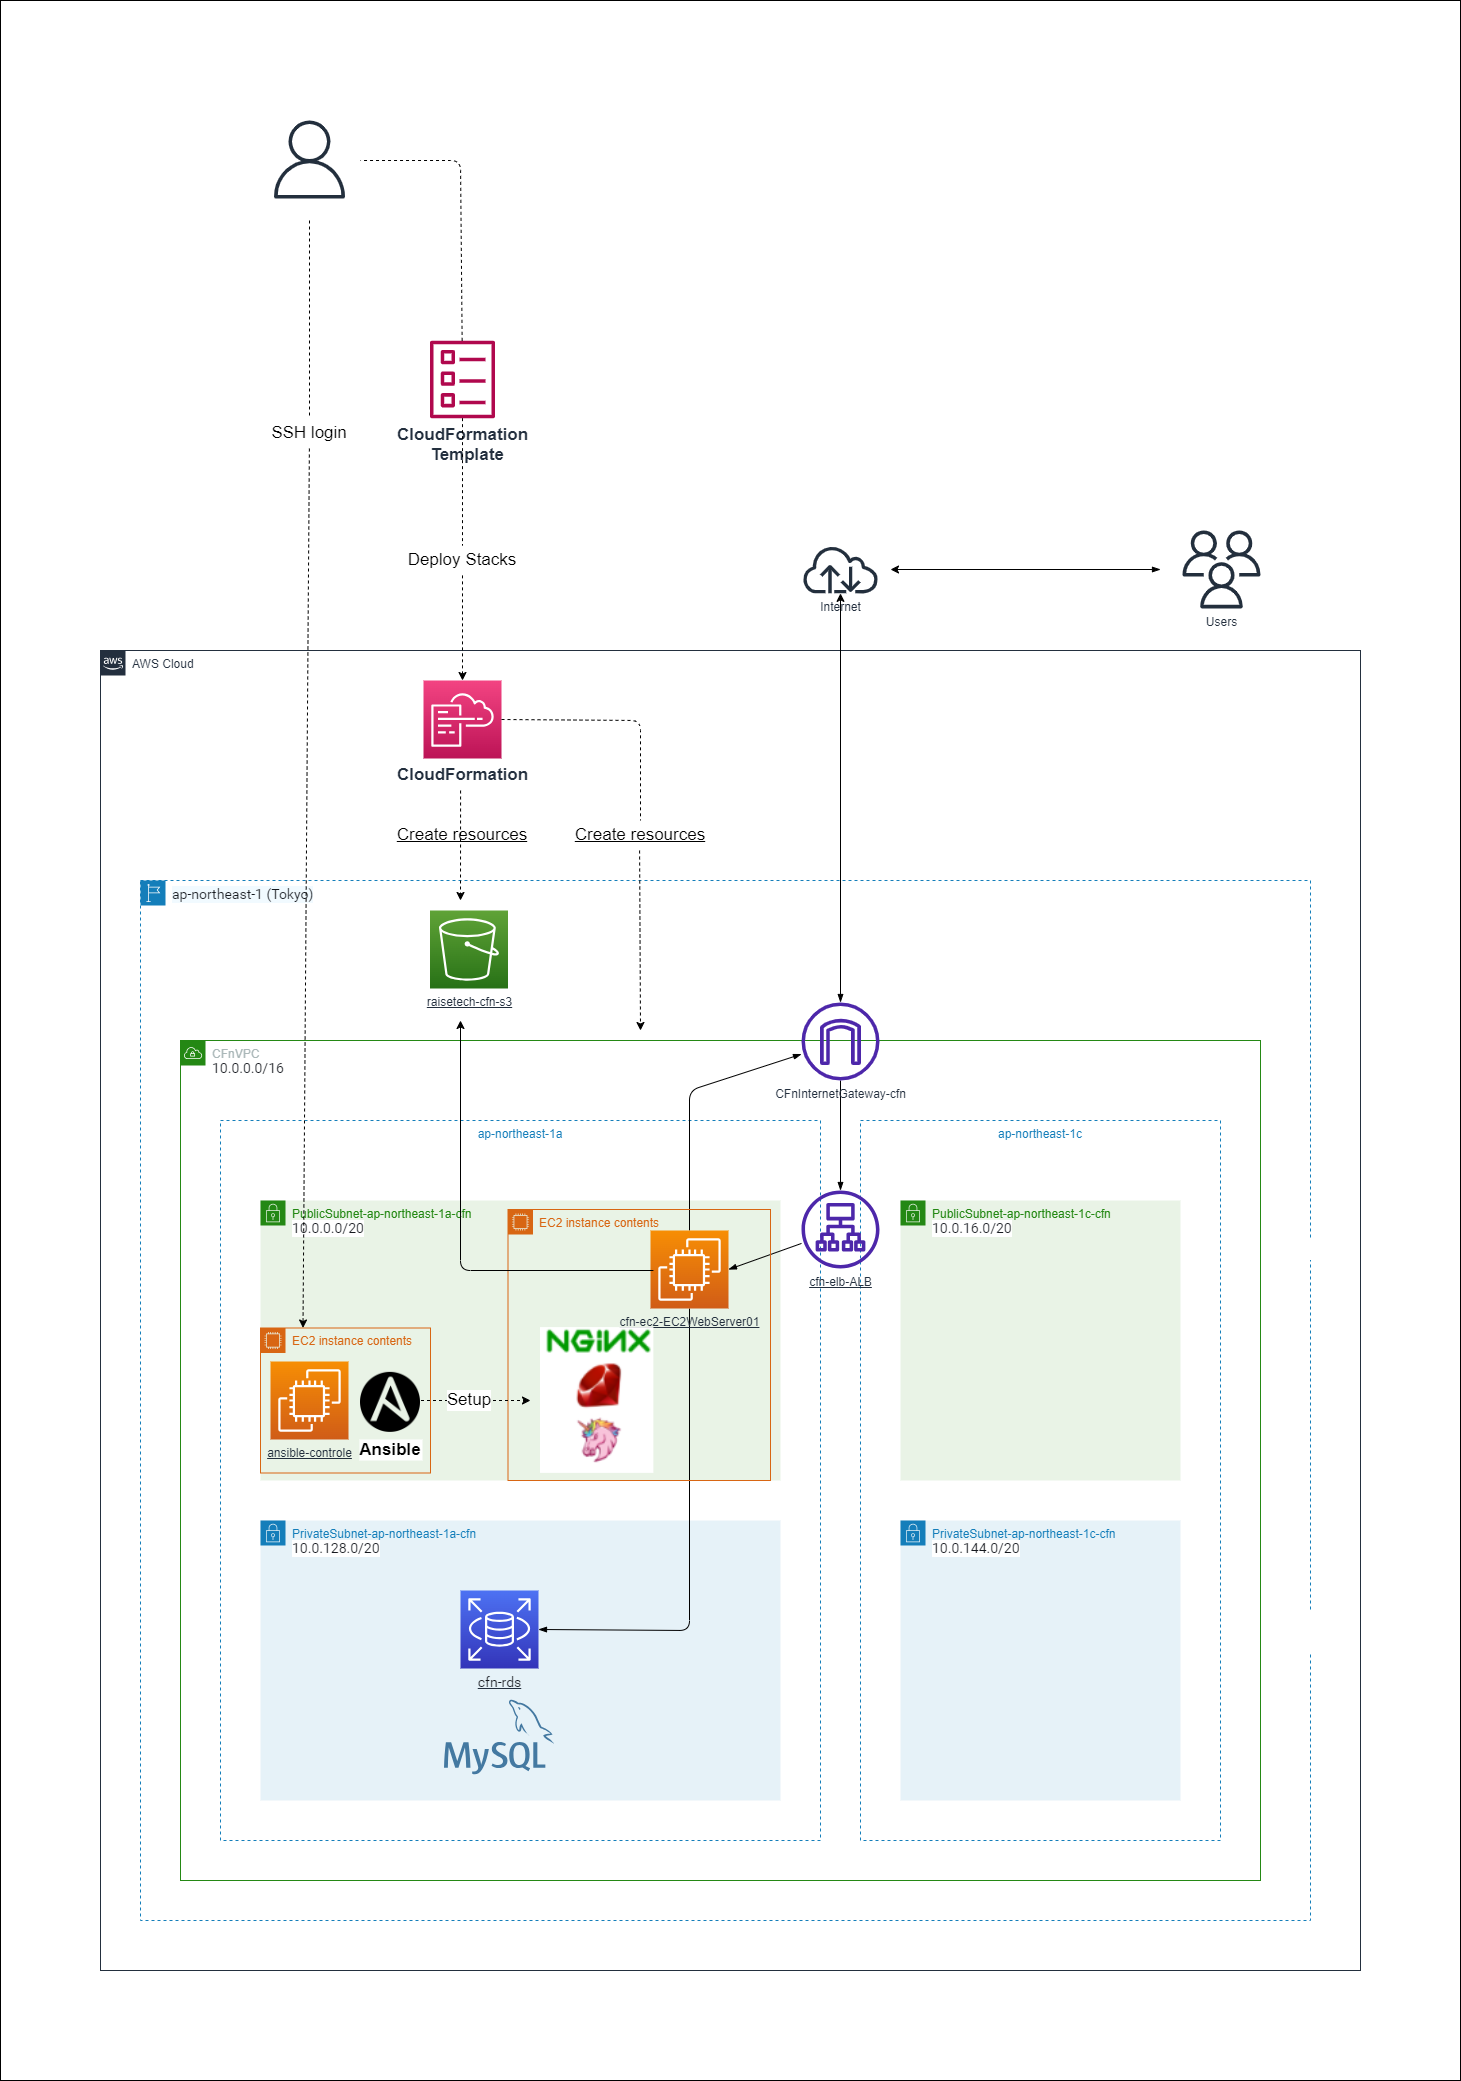
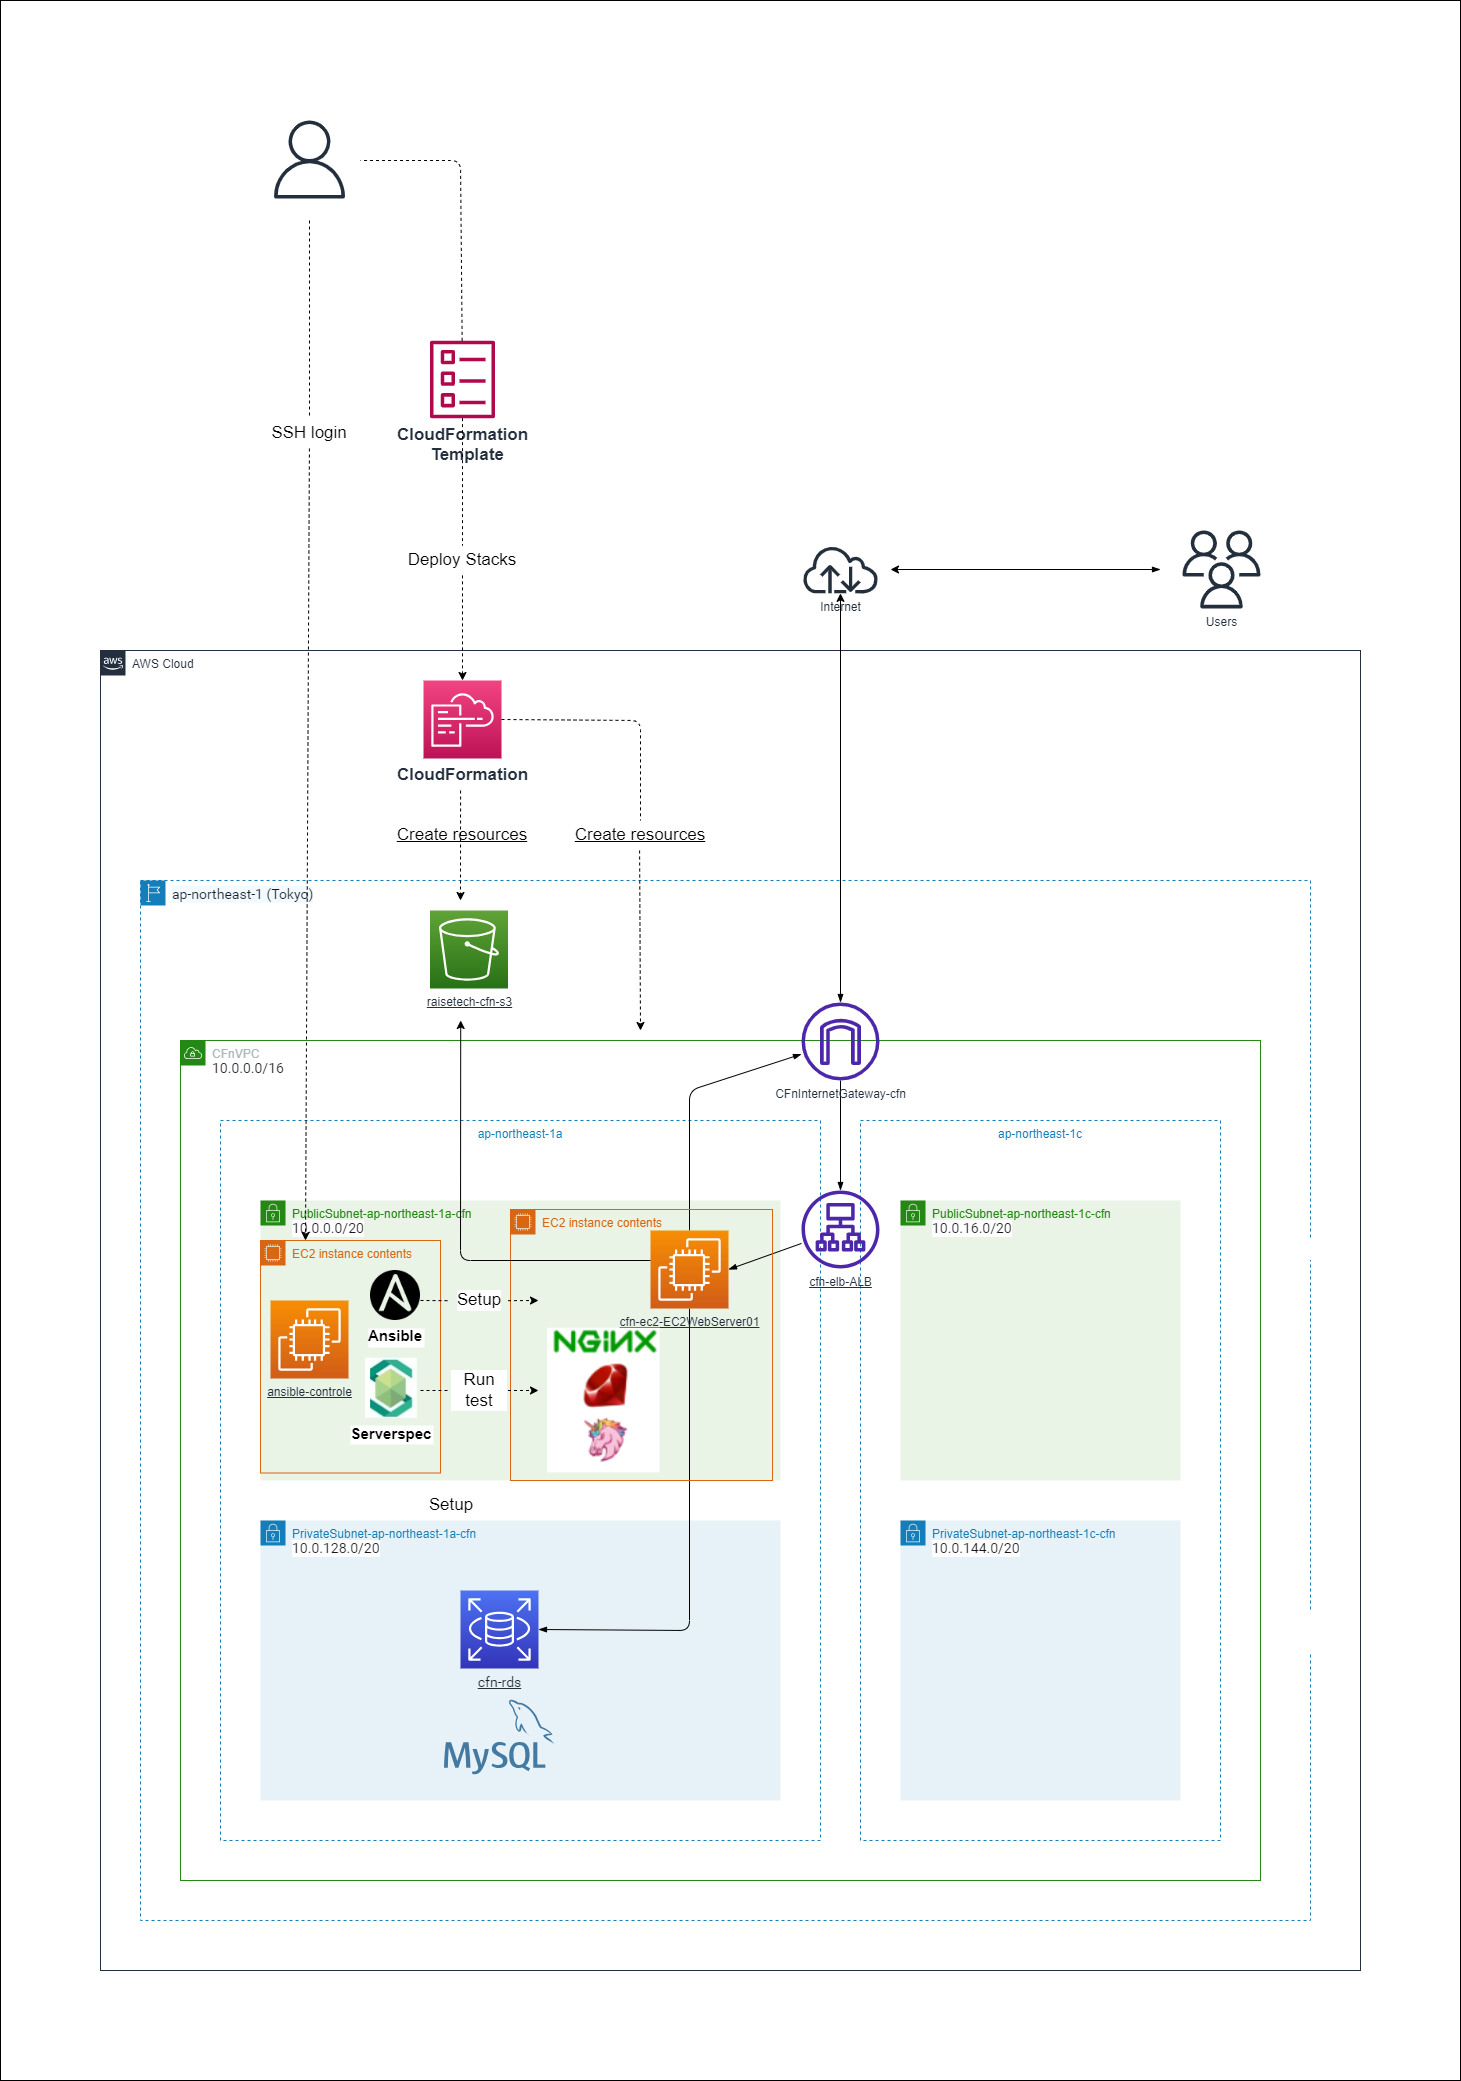
ansible-practice02.md・README.md：追記・編集

Changed region(s): [[0.154, 0.5622, 0.462, 0.7184]]

diff --git a/ansible_practice/practice02/ansible-practice02.md b/ansible_practice/practice02/ansible-practice02.md
@@ -1,4 +1,4 @@
-# 【 Ansible ( advanced )： サンプルアプリケーションのデプロイ・手動構築を自動化 】
+# 【 Ansible ( advanced )  ＋ Serverspec：サンプルアプリケーションのデプロイ・手動構築 ＋ テスト を自動化 】
 
 ## ■ 本実践内容の概要
 - [lecture05.md](../../Tasks/lecture05/lecture05.md) の サンプルアプリケーションのデプロイ・手動構築 を Ansible にて自動化
@@ -6,6 +6,7 @@
 - 上記環境上に 新規EC2 (コントロールノード) をマネージメントコンソールで作成し、Playbook等のファイル群を作成
 - コントロールノードからターゲットノードへ  OS/ミドルウェアレイヤーのインストール・設定・起動等を自動実行
 - デプロイが成功しているか動作確認
+- Serverspec によるテスト自動実行も実施　( ※コントロールノードからターゲットノードへのテストを実行)
 
 ## ■ 構成図・自動化処理フロー図・動作環境
 ![ansible-practice02.png](../practice02/images/ansible-practice02.png)
@@ -154,12 +155,24 @@
   | Node     | v17.9.1    |
   | Yarn     | 1.22.19    |
 
+## ■ Serverspec によるテスト実行
+- 下記を参考に、コントロールノード上で Severspec が動作するよう環境構築を実施<br>
+【 参照 】 [lecture13.md - 【 ② Serverspec によるテストを 実行ホストからターゲットノード(リモートホスト)へ行う際の環境構築 】](../../Tasks/lecture13/lecture13.md)<br>
+- 適宜ターゲットノード (リモートホスト) へのSSH接続設定を実施　( `~/.ssh/config` の作成＋権限設定 )
+-  `sample_spec.rb` にテストコードを記述<br>
+( ※記述内容・詳細は [/serverspec/spec/cfn-ec2-EC2WebServer01/sample_spec.rb](./serverspec/spec/cfn-ec2-EC2WebServer01/sample_spec.rb) を参照 )
+- テストコマンドを実行 `bundle exec rake`　( ※`serverspec` ディレクトリに移動して実行 )
+- テスト結果  ：成功
+![ansible_practice02_10.png](./images/ansible_practice02_10.png)
+![ansible_practice02_11.png](./images/ansible_practice02_11.png)
+![ansible_practice02_12.png](./images/ansible_practice02_12.png)
+
 ## ■所感・取組観点など
-- 今回はより Ansible の発展的な内容として、<br>
-これまで手動で行っていた OS/ミドルウェアレイヤー のインストール・設定・起動等の自動化を実施
+- 今回はより Ansible の発展的な内容として、これまで手動で行っていた OS/ミドルウェアレイヤー のインストール・設定・起動等の自動化を実施
 - Ansibleでどのようなことができるのか、それを体験ベースで知るために今回のようなハンズオンを実施
-- なかなかのボリュームだったが、一通りやり終えて非常に勉強になったと実感
-- 今後は Severspec や CircleCI も活用し、より発展的な自動化を行っていきたい
+- また、 Ansible 実行後には Severspec によるテストの自動実行も実施
+- なかなかのボリュームだったが、一連の自動化を試すことができ非常に勉強になった
+- 今後は CircleCI も活用した、より発展的な自動化を行っていきたい
 
 ## ■ 参考リンク
 【 Ansible全般 】
@@ -180,3 +193,6 @@
 - [ansible.builtin.blockinfile module – Insert/update/remove a text block surrounded by marker lines](https://docs.ansible.com/ansible/latest/collections/ansible/builtin/blockinfile_module.html)
 - [ansible.builtin.file module – Manage files and file properties](https://docs.ansible.com/ansible/latest/collections/ansible/builtin/file_module.html)
 - [ansible.builtin.stat module – Retrieve file or file system status](https://docs.ansible.com/ansible/latest/collections/ansible/builtin/stat_module.html)
+
+【 Severspec関連 】
+- [Serverspecでよく使うテストの書き方まとめ](https://qiita.com/minamijoyo/items/467ddd13c0cab15330bf)

diff --git a/README.md b/README.md
@@ -264,8 +264,15 @@
 | [tf_practice01.md](./terraform/practice01/tf_practice01.md) | Terraform<br> ( シングルAZ構成 ) | [lecture10.md](./Tasks/lecture10/lecture10.md) の構成を Terraform で構築 |
 | [cfn_practice01.md](./cloudformation/practice01/cfn_practice01.md)                                                            | CloudFormation<br> ( 冗長化構成 )                                                                              | [lecture10.md](./Tasks/lecture10/lecture10.md) の構成を<br> マルチAZ・冗長化構成 に変更      |
 | [tf_practice02.md](./terraform/practice02/tf_practice02.md)                                                            | Terraform<br> ( 冗長化構成 )                                                                              | [tf_practice01.md](./terraform/practice01/tf_practice01.md) の構成を<br> マルチAZ・冗長化構成 に変更      |
-| [ansible_practice01.md](./ansible_practice/practice01/ansible_practice01.md)                                                            | Ansible<br> ( basic )                                                                              | 動作環境構築・設定 /<br> ロール分割 / 複数ホスト処理      |
-| [ansible_practice02.md](./ansible_practice/practice02/ansible-practice02.md)                                                            | Ansible<br> ( advanced )                                                                              | [lecture05.md](./Tasks/lecture05/lecture05.md) で実施した<br>サンプルアプリケーションの デプロイ・手動構築 を自動化      |<br>
+| [ansible_practice01.md](./ansible_practice/practice01/ansible_practice01.md)                                                            | Ansible ( basic )                                                                              | 動作環境構築・設定 /<br> ロール分割 / 複数ホスト処理      |
+| [ansible_practice02.md](./ansible_practice/practice02/ansible-practice02.md)                                                            | Ansible ( advanced )<br> ＋ Serverspec                                                                              | [lecture05.md](./Tasks/lecture05/lecture05.md) で実施した サンプルアプリケーションの<br> デプロイ・手動構築＋テスト を自動化     |<br>
 
-### ■ 【 Ansible ( advanced )：構成図・自動化処理フロー図 】
+### ■ 【 Ansible ( advanced ) ＋ Serverspec ：構成図・自動化処理フロー図 】
 ![ansible-practice02.png](./ansible_practice/practice02/images/ansible-practice02.png)
+#### ■ 本実践内容の概要 - [ansible_practice02.md](./ansible_practice/practice02/ansible-practice02.md)
+- [lecture05.md](../../Tasks/lecture05/lecture05.md) の サンプルアプリケーションのデプロイ・手動構築 を Ansible にて自動化
+- インフラリソースについては、[lecture10 の CloudFormation_templates (シングルAZ構成)](../../Tasks/lecture10/CloudFormation_templates/) を使用して構築
+- 上記環境上に 新規EC2 (コントロールノード) をマネージメントコンソールで作成し、Playbook等のファイル群を作成
+- コントロールノードからターゲットノードへ  OS/ミドルウェアレイヤーのインストール・設定・起動等を自動実行
+- デプロイが成功しているか動作確認
+- Serverspec によるテスト自動実行を実施　( ※コントロールノードからターゲットノードへのテストを実行)
